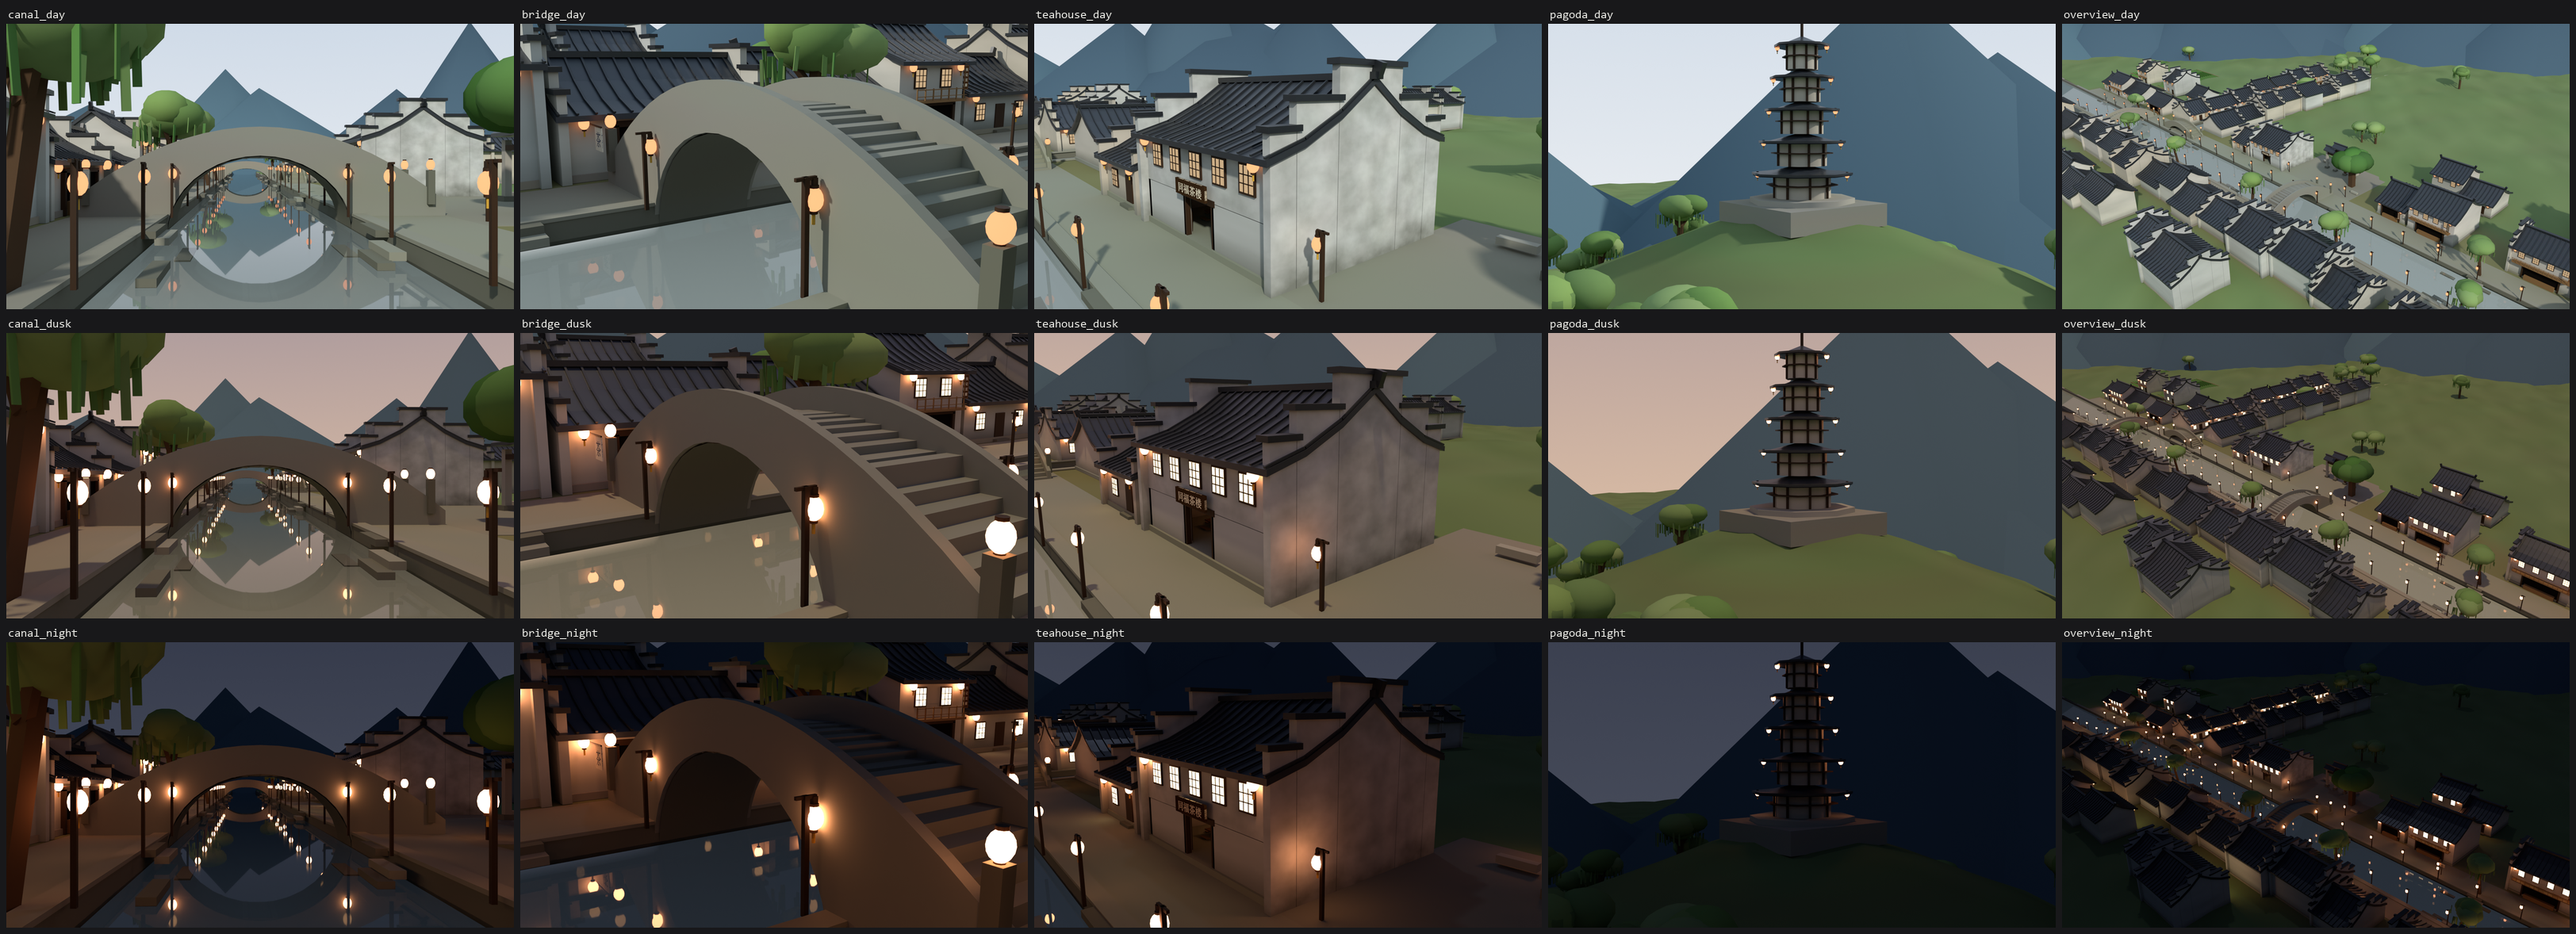
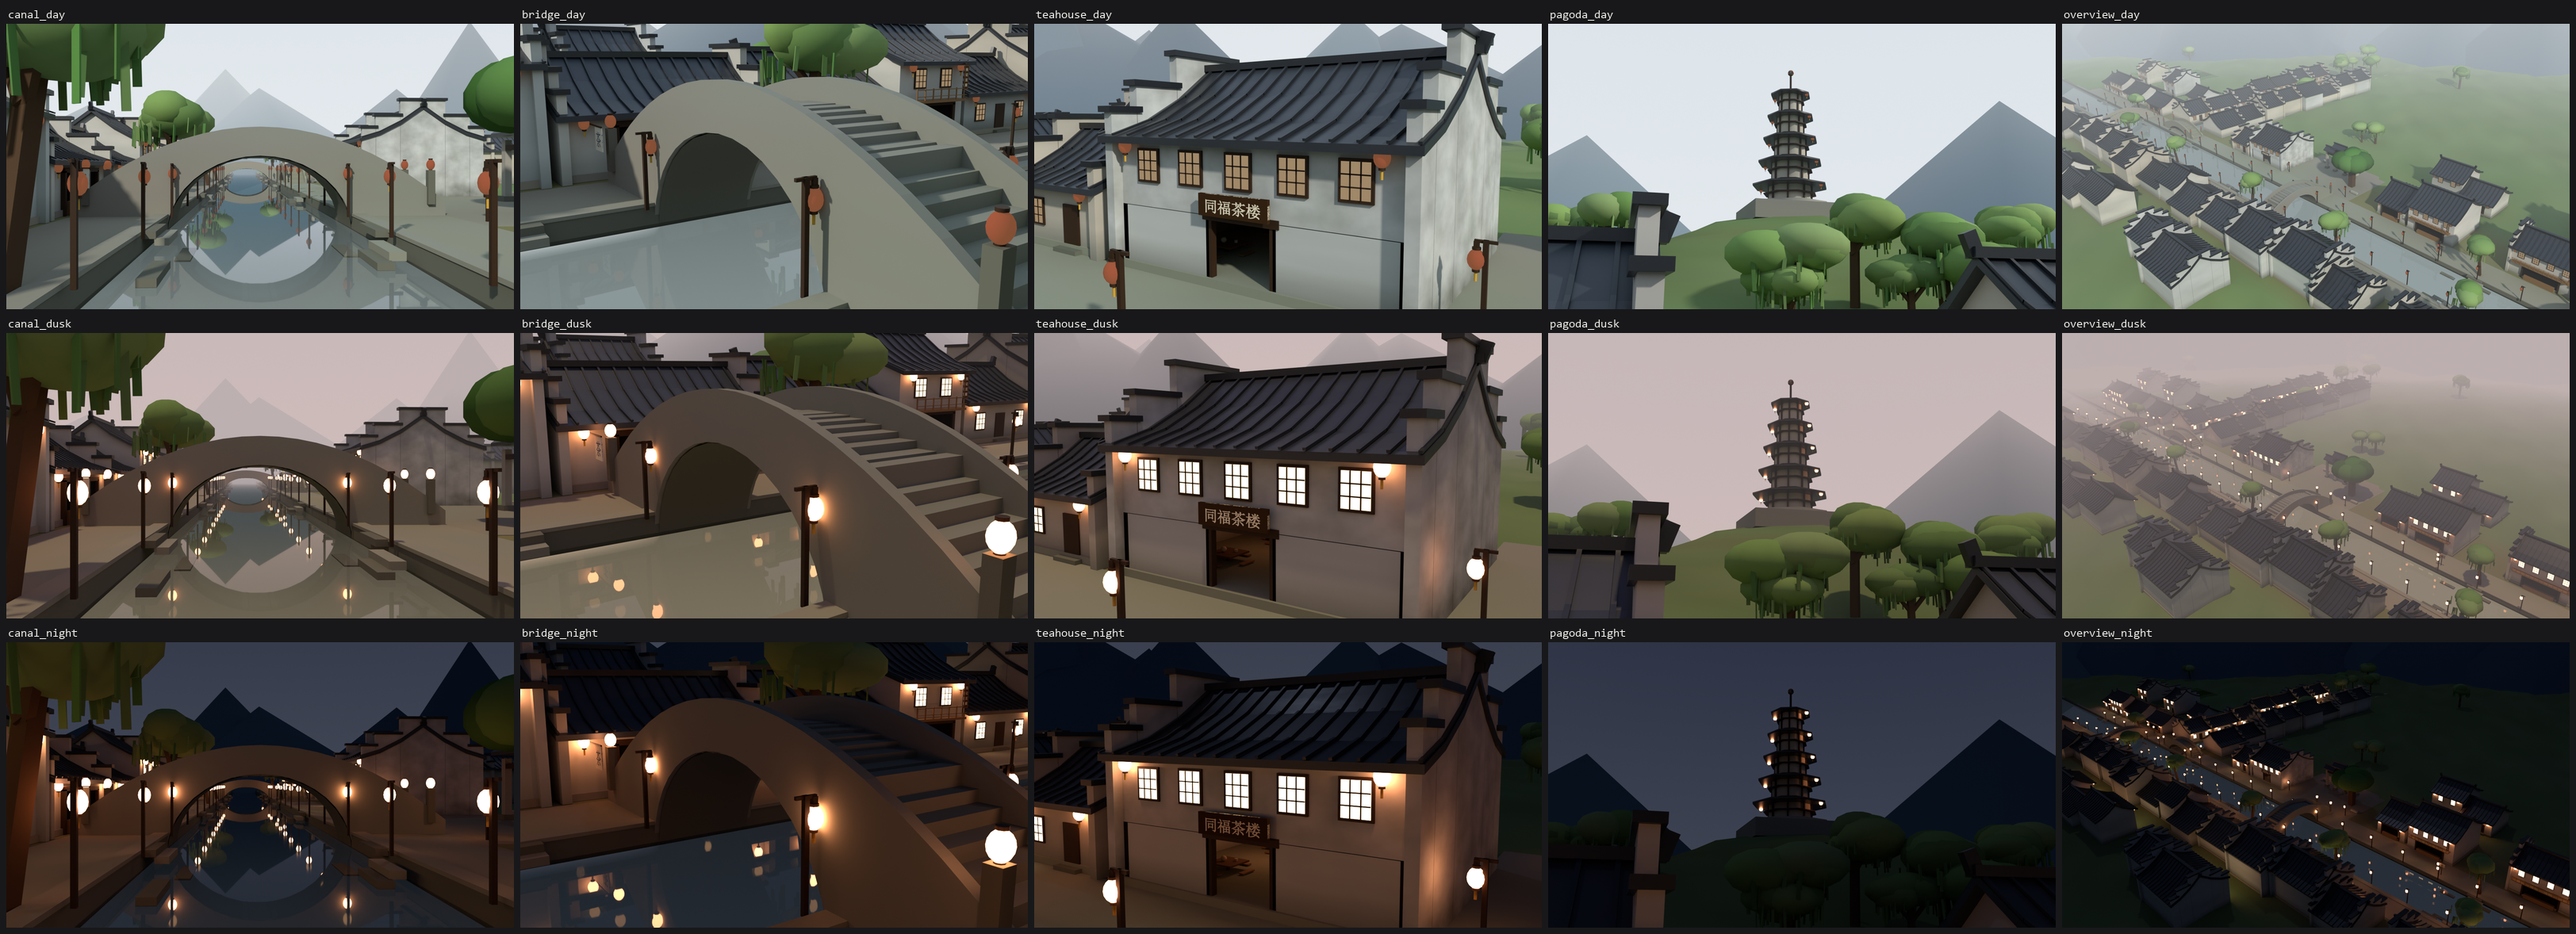
把生成器写细：真筒瓦、有进深的窗，外加搭朋友的车
**这次改的是生成器本身，不是渲染。** 游戏和 Blender 版同时变好 ——
Blender 那套是镜像 JS 的，所以两边一起改、一起验。

几何（journeys/watertown.js + blender/parts/hall.py 同步）
- 瓦垄：方条 -> 八边圆柱。小青瓦是弧面的，方棱在阳光下一眼假。
  圆柱长轴在 Y，先转 90 度躺下再按坡度倾斜（PI/2 - 坡角）。
  八边圆柱 34 个顶点、方盒 24 个，代价很小。
- 窗：原来是一块板贴在墙上、窗纸还浮在板前面，近看就是一张贴纸。
  改成先掏暗洞壁、窗纸退进去、框做成四条边围出空心、窗棂压最外层。
  6 个盒子变 9 个，换来"墙上真的有个洞"。

整镇 151,647 -> 198,175 顶点（+31%）。渲染时间反而降了（窗纸退进洞里，
漏出来的光少，收敛更快）。比对工具确认两边仍然逐次相等：
几何调用 11,465 -> 12,269，全部对上。

联机：搭朋友的车（index.html）
- 走到正在开车/开船/开飞机的朋友身边，按 F 或点按钮就能搭上。
- **刻意不碰物理**：开车的人照旧本地模拟，乘客每帧贴到对方广播的位姿上
  加一个座位偏移。所以没有权威交接、没有输入转发、两边物理不会打架。
- 司机下车、走进旅程、断线 —— 任何一种都自动放人落地，不会卡在半空。
- 搭车时上报 kind='ride'，别人看到的是坐在车里的人，
  不是一个以车速滑行的行人。
- smoke 里有回归：靠近可搭、跟车 78 米、司机下车/断线自动放人。

dist/星屿-六地旅行版.html 重新打包（单文件，双击即玩）。

Claude-Session: https://claude.ai/code/session_01JB5qCW8wKFmrhF96ifJ9vQ

diff --git a/index.html b/index.html
@@ -2246,7 +2246,7 @@ function tick(){
   updateHarbor(dt,t);
   // 模式
   if(mode===MODE.RIDE)updateParkCamera(dt);
-  else if(mode===MODE.WALK) updateWalk(dt, t);
+  else if(mode===MODE.WALK) hitch?updateHitch(dt,t):updateWalk(dt, t);
   else if(mode===MODE.DRIVE) updateDrive(dt, t);
   else if(mode===MODE.SAIL) updateSail(dt, t);
   else if(mode===MODE.FLY) updateFly(dt, t);
@@ -5818,9 +5818,58 @@ function animateRemotePlayers(dt,t){
   r.avatar.body.position.y=Math.sin(t*1.5)*.012+(gait?Math.abs(Math.sin(r.phase))*.04:0);
  }
 }
+/* ---------- 搭朋友的车 ---------- */
+// 只贴位置，不碰物理：开车的人照旧本地模拟，乘客把自己每帧贴到对方广播的位姿上。
+// 于是没有权威交接、没有输入转发，两边的物理也不会打架。
+const HITCH_KINDS=new Set(['drive','sail','fly']);
+const HITCH_REACH=5.0;          // 走到多近能搭上
+const HITCH_SEAT=0.62;          // 坐在司机旁边，偏出去这么多米
+let hitch=null, hitchNear=null;
+
+function hitchable(r){
+ return r&&r.seen&&HITCH_KINDS.has(r.kind)&&r.region===region&&r.avatar.g.visible;
+}
+function findHitch(){
+ if(mode!==MODE.WALK||walk.swim||activeHarborBuilding)return null;
+ let best=null,bestD=HITCH_REACH;
+ for(const [id,r] of remotePlayers){
+  if(!hitchable(r))continue;
+  const d=Math.hypot(r.avatar.g.position.x-walk.x,r.avatar.g.position.z-walk.z);
+  if(d<bestD){best={id,r};bestD=d;}
+ }
+ return best;
+}
+function startHitch(pick){
+ if(!pick)return;
+ hitch={id:pick.id};
+ setMode(MODE.WALK);
+ showHint((touchUi()?'搭上了 · 点「下车」离开':'搭上了 · 按 F 下车')+' · 车归'+(pick.r.name||'对方')+'开');
+}
+function stopHitch(reason){
+ if(!hitch)return;
+ hitch=null;
+ groundPlayer();
+ walk.vx=walk.vz=0;walk.speed=0;
+ if(reason)showHint(reason);
+}
+// 乘客每帧被贴到司机的位姿上。司机没了/下车了/走进旅程了，就自动放人下来。
+function updateHitch(dt,t){
+ const r=remotePlayers.get(hitch.id);
+ if(!hitchable(r)){stopHitch('这趟车没了 · 你回到地面上');return;}
+ const p=r.avatar.g.position, side=r.heading+Math.PI/2;
+ walk.x=p.x+Math.cos(side)*HITCH_SEAT;
+ walk.z=p.z-Math.sin(side)*HITCH_SEAT;
+ walk.y=walk.groundY=p.y+(r.kind==='drive'?0.62:r.kind==='sail'?0.5:0.35);
+ walk.heading=r.heading;walk.speed=r.speed;walk.vx=walk.vz=0;
+ walk.bob+=dt*Math.min(6,r.speed)*0.4;
+ placeWalkCamera(0,0);
+}
+
 function localOnlinePose(){
  const traveling=journeys?.getPose();if(traveling)return traveling;
  let x=walk.x,y=walk.y,z=walk.z,heading=walk.heading,speed=walk.speed,kind=walk.swim?'swim':mode;
+ // 搭车时报 ride：别人看到的是坐在车里的人，不是一个以车速滑行的行人
+ if(hitch)return {x,y,z,heading,speed,kind:'ride',region};
  if(mode===MODE.DRIVE){x=car.x;y=car.y;z=car.z;heading=car.yaw;speed=Math.abs(car.spd);}
  else if(mode===MODE.SAIL){x=ship.x;y=waveHeight(ship.x,ship.z,performance.now()/1000)+.4;z=ship.z;heading=ship.yaw;speed=Math.abs(ship.spd);}
  else if(mode===MODE.FLY){x=plane.x;y=plane.y;z=plane.z;heading=plane.yaw;speed=plane.spd;}
@@ -6197,6 +6246,8 @@ function exitCar(){
  showHint(touchUi()?'下车 · 走到车边点「上车」':'下车 · 走近车身按 F 再上车');
 }
 function toggleVehicle(){
+ if(hitch){stopHitch(touchUi()?'下车了 · 走近点「搭车」再上':'下车了 · 走近按 F 再搭');return;}
+ if(hitchNear&&mode===MODE.WALK&&!vehicleNear&&!shipNear&&!planeNear){startHitch(hitchNear);return;}
  if(mode===MODE.DRIVE)exitCar();
  else if(mode===MODE.SAIL)leaveShip();
  else if(mode===MODE.FLY)leavePlane();
@@ -6383,9 +6434,10 @@ function updateActors(dt,t){
  shipNear=mode===MODE.WALK&&!activeHarborBuilding&&shipHullDistance(walk.x,walk.z)<3.6;
  planeNear=mode===MODE.WALK&&!activeHarborBuilding&&plane.water&&Math.hypot(walk.x-plane.x,walk.z-plane.z)<PLANE_BOARD_R;
  const canLeavePlane=mode===MODE.FLY&&plane.water&&plane.spd<6;
- const show = (vehicleNear || shipNear || planeNear || mode===MODE.DRIVE || canLeavePlane) && !document.querySelector('dialog[open]');
+ hitchNear=hitch?null:findHitch();
+ const show = (vehicleNear || shipNear || planeNear || hitchNear || hitch || mode===MODE.DRIVE || canLeavePlane) && !document.querySelector('dialog[open]');
  vehicleBtn.hidden=!show;
- if(show) vehicleBtn.textContent=(mode===MODE.DRIVE?'下车':canLeavePlane?'下机':vehicleNear?'上车 · 老爷车':shipNear?'上船 · 帆船':'上机 · 水上飞机')+(innerWidth>700?' · F':'');
+ if(show) vehicleBtn.textContent=(hitch?'下车':mode===MODE.DRIVE?'下车':canLeavePlane?'下机':vehicleNear?'上车 · 老爷车':shipNear?'上船 · 帆船':planeNear?'上机 · 水上飞机':'搭 '+(hitchNear.r.name||'朋友')+' 的车')+(innerWidth>700?' · F':'');
  const jumpLabel=mode===MODE.FLY?'油门':walk.swim?'上岸':'跳';
  if(jumpBtn.textContent!==jumpLabel)jumpBtn.textContent=jumpLabel;
 }

diff --git a/journeys/watertown.js b/journeys/watertown.js
@@ -180,11 +180,13 @@ function addRoof(parent,w,d,H,r,ox,oz,slateC,stripC,bt){
   // 瓦垄：每段坡面铺细条
   const segs=[]; for(let i=0;i<prof.length-1;i++){ const [z0,y0]=prof[i],[z1,y1]=prof[i+1]; segs.push({z:(z0+z1)/2,y:(y0+y1)/2+0.09,len:Math.hypot(z1-z0,y1-y0)+0.05,ang:Math.atan2(y1-y0,z1-z0)}); }
   const n=Math.max(2,Math.round(len/1.0));
+  // 瓦垄用八边圆柱而不是方条：小青瓦是弧面的，方棱在阳光下一眼假。
+  // 圆柱的长轴在 Y，要先转 90 度躺下再按坡度倾斜，所以是 PI/2 - 坡角。
   for(let k=0;k<=n;k++){
     const x=-len/2+0.12+(len-0.24)*k/n;
     for(const sg of segs){
-      box(bt.roof,stripC,0.13,0.1,sg.len, x,sg.y, sg.z, 0,-sg.ang,0,parent);
-      box(bt.roof,stripC,0.13,0.1,sg.len, x,sg.y,-sg.z, 0, sg.ang,0,parent);
+      bt.roof.add(G.cyl, parent.clone().multiply(M(x,sg.y, sg.z, 0.067,sg.len,0.067, Math.PI/2-sg.ang,0,0)), stripC);
+      bt.roof.add(G.cyl, parent.clone().multiply(M(x,sg.y,-sg.z, 0.067,sg.len,0.067, Math.PI/2+sg.ang,0,0)), stripC);
     }
   }
   // 正脊与两端翘起的脊饰
@@ -220,11 +222,17 @@ function addFront(parent,o,H,bt,upperOnly){
   const w=o.w, d=o.d, zf=d/2, wood=C.woodDk;
   const slots=Math.max(1,Math.floor((w-1.4)/2.5)), gap=(w-1.4)/slots;
   const xs=[]; for(let i=0;i<slots;i++) xs.push(-w/2+0.7+gap*(i+0.5));
+  // 窗要有进深。原来是一块板贴在墙面上、窗纸还浮在板前面，近看就是一张贴纸。
+  // 现在：先掏一个暗的洞壁，窗纸退进去，框做成四条边围出空心，窗棂再压在最外层。
   const win=(x,y)=>{
-    box(bt.wood,wood,1.32,1.52,0.14, x,y,zf+0.03, 0,0,0,parent);
-    box(bt.glow,C.glowWin,1.1,1.3,0.06, x,y,zf+0.08, 0,0,0,parent);
-    box(bt.wood,wood,0.05,1.3,0.06, x-0.2,y,zf+0.11, 0,0,0,parent); box(bt.wood,wood,0.05,1.3,0.06, x+0.2,y,zf+0.11, 0,0,0,parent);
-    box(bt.wood,wood,1.1,0.05,0.06, x,y-0.22,zf+0.11, 0,0,0,parent); box(bt.wood,wood,1.1,0.05,0.06, x,y+0.22,zf+0.11, 0,0,0,parent);
+    box(bt.misc,0x1a1512,1.18,1.38,0.18, x,y,zf-0.04, 0,0,0,parent);          // 洞壁（暗）
+    box(bt.glow,C.glowWin,1.12,1.32,0.05, x,y,zf-0.01, 0,0,0,parent);         // 窗纸，退在洞里
+    box(bt.wood,wood,1.34,0.12,0.14, x,y+0.72,zf+0.04, 0,0,0,parent);         // 上枋
+    box(bt.wood,wood,1.34,0.14,0.17, x,y-0.73,zf+0.05, 0,0,0,parent);         // 窗台，厚一点、探出来
+    box(bt.wood,wood,0.12,1.58,0.14, x-0.67,y,zf+0.04, 0,0,0,parent);         // 左框
+    box(bt.wood,wood,0.12,1.58,0.14, x+0.67,y,zf+0.04, 0,0,0,parent);         // 右框
+    box(bt.wood,wood,0.05,1.3,0.05, x-0.2,y,zf+0.06, 0,0,0,parent); box(bt.wood,wood,0.05,1.3,0.05, x+0.2,y,zf+0.06, 0,0,0,parent);
+    box(bt.wood,wood,1.1,0.05,0.05, x,y-0.22,zf+0.06, 0,0,0,parent); box(bt.wood,wood,1.1,0.05,0.05, x,y+0.22,zf+0.06, 0,0,0,parent);
   };
   if(o.floors===2){ for(const x of xs) win(x,4.9); }
   if(upperOnly){}

diff --git a/blender/parts/hall.py b/blender/parts/hall.py
@@ -83,13 +83,17 @@ def add_roof(bt, parent, w, d, H, r, ox, oz, slate_c, strip_c):
                      "len": math.hypot(z1 - z0, y1 - y0) + 0.05,
                      "ang": math.atan2(y1 - y0, z1 - z0)})
     n = max(2, js_round(length / 1.0))
+    # 瓦垄用八边圆柱而不是方条：小青瓦是弧面的，方棱在阳光下一眼假。
+    # 圆柱长轴在 Y，要先转 90 度躺下再按坡度倾斜，所以是 pi/2 - 坡角。
     for k in range(n + 1):
         x = -length / 2 + 0.12 + (length - 0.24) * k / n
         for sg in segs:
-            box(bt["roof"], strip_c, 0.13, 0.1, sg["len"],
-                x, sg["y"], sg["z"], 0, -sg["ang"], 0, parent)
-            box(bt["roof"], strip_c, 0.13, 0.1, sg["len"],
-                x, sg["y"], -sg["z"], 0, sg["ang"], 0, parent)
+            bt["roof"].add("cyl", parent @ M(x, sg["y"], sg["z"],
+                                             0.067, sg["len"], 0.067,
+                                             math.pi / 2 - sg["ang"], 0, 0), strip_c)
+            bt["roof"].add("cyl", parent @ M(x, sg["y"], -sg["z"],
+                                             0.067, sg["len"], 0.067,
+                                             math.pi / 2 + sg["ang"], 0, 0), strip_c)
 
     # 正脊与两端翘起的脊饰
     box(bt["roof"], C["slateDk"], length + 0.4, 0.36, 0.62, 0, H + r + 0.1, 0, 0, 0, 0, parent)
@@ -145,13 +149,19 @@ def add_front(bt, parent, o, H, upper_only, reg):
     gap = (w - 1.4) / slots
     xs = [-w / 2 + 0.7 + gap * (i + 0.5) for i in range(slots)]
 
+    # 窗要有进深。原来是一块板贴在墙面上、窗纸还浮在板前面，近看就是一张贴纸。
+    # 现在：先掏一个暗的洞壁，窗纸退进去，框做成四条边围出空心，窗棂压在最外层。
     def win(x, y):
-        box(bt["wood"], wood, 1.32, 1.52, 0.14, x, y, zf + 0.03, 0, 0, 0, parent)
-        box(bt["glow"], C["glowWin"], 1.1, 1.3, 0.06, x, y, zf + 0.08, 0, 0, 0, parent)
-        box(bt["wood"], wood, 0.05, 1.3, 0.06, x - 0.2, y, zf + 0.11, 0, 0, 0, parent)
-        box(bt["wood"], wood, 0.05, 1.3, 0.06, x + 0.2, y, zf + 0.11, 0, 0, 0, parent)
-        box(bt["wood"], wood, 1.1, 0.05, 0.06, x, y - 0.22, zf + 0.11, 0, 0, 0, parent)
-        box(bt["wood"], wood, 1.1, 0.05, 0.06, x, y + 0.22, zf + 0.11, 0, 0, 0, parent)
+        box(bt["misc"], 0x1A1512, 1.18, 1.38, 0.18, x, y, zf - 0.04, 0, 0, 0, parent)
+        box(bt["glow"], C["glowWin"], 1.12, 1.32, 0.05, x, y, zf - 0.01, 0, 0, 0, parent)
+        box(bt["wood"], wood, 1.34, 0.12, 0.14, x, y + 0.72, zf + 0.04, 0, 0, 0, parent)
+        box(bt["wood"], wood, 1.34, 0.14, 0.17, x, y - 0.73, zf + 0.05, 0, 0, 0, parent)
+        box(bt["wood"], wood, 0.12, 1.58, 0.14, x - 0.67, y, zf + 0.04, 0, 0, 0, parent)
+        box(bt["wood"], wood, 0.12, 1.58, 0.14, x + 0.67, y, zf + 0.04, 0, 0, 0, parent)
+        box(bt["wood"], wood, 0.05, 1.3, 0.05, x - 0.2, y, zf + 0.06, 0, 0, 0, parent)
+        box(bt["wood"], wood, 0.05, 1.3, 0.05, x + 0.2, y, zf + 0.06, 0, 0, 0, parent)
+        box(bt["wood"], wood, 1.1, 0.05, 0.05, x, y - 0.22, zf + 0.06, 0, 0, 0, parent)
+        box(bt["wood"], wood, 1.1, 0.05, 0.05, x, y + 0.22, zf + 0.06, 0, 0, 0, parent)
 
     if o.get("floors") == 2:
         for x in xs:
